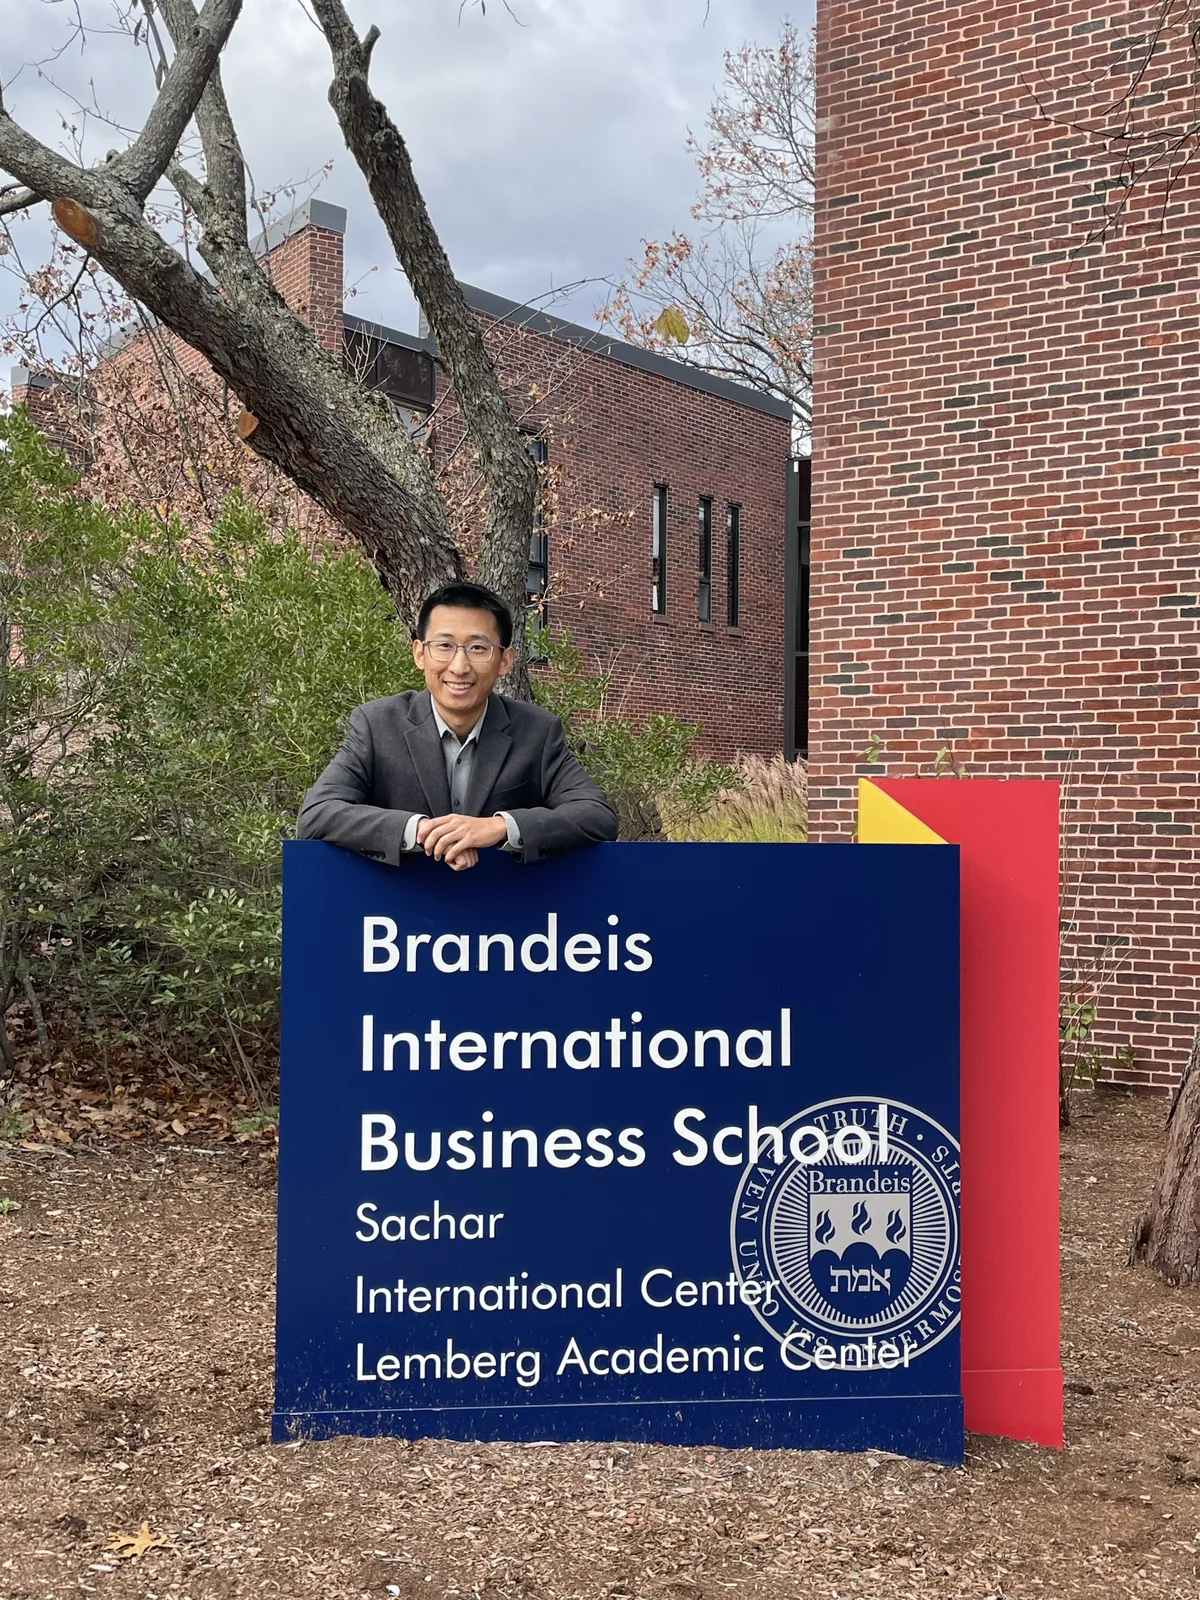
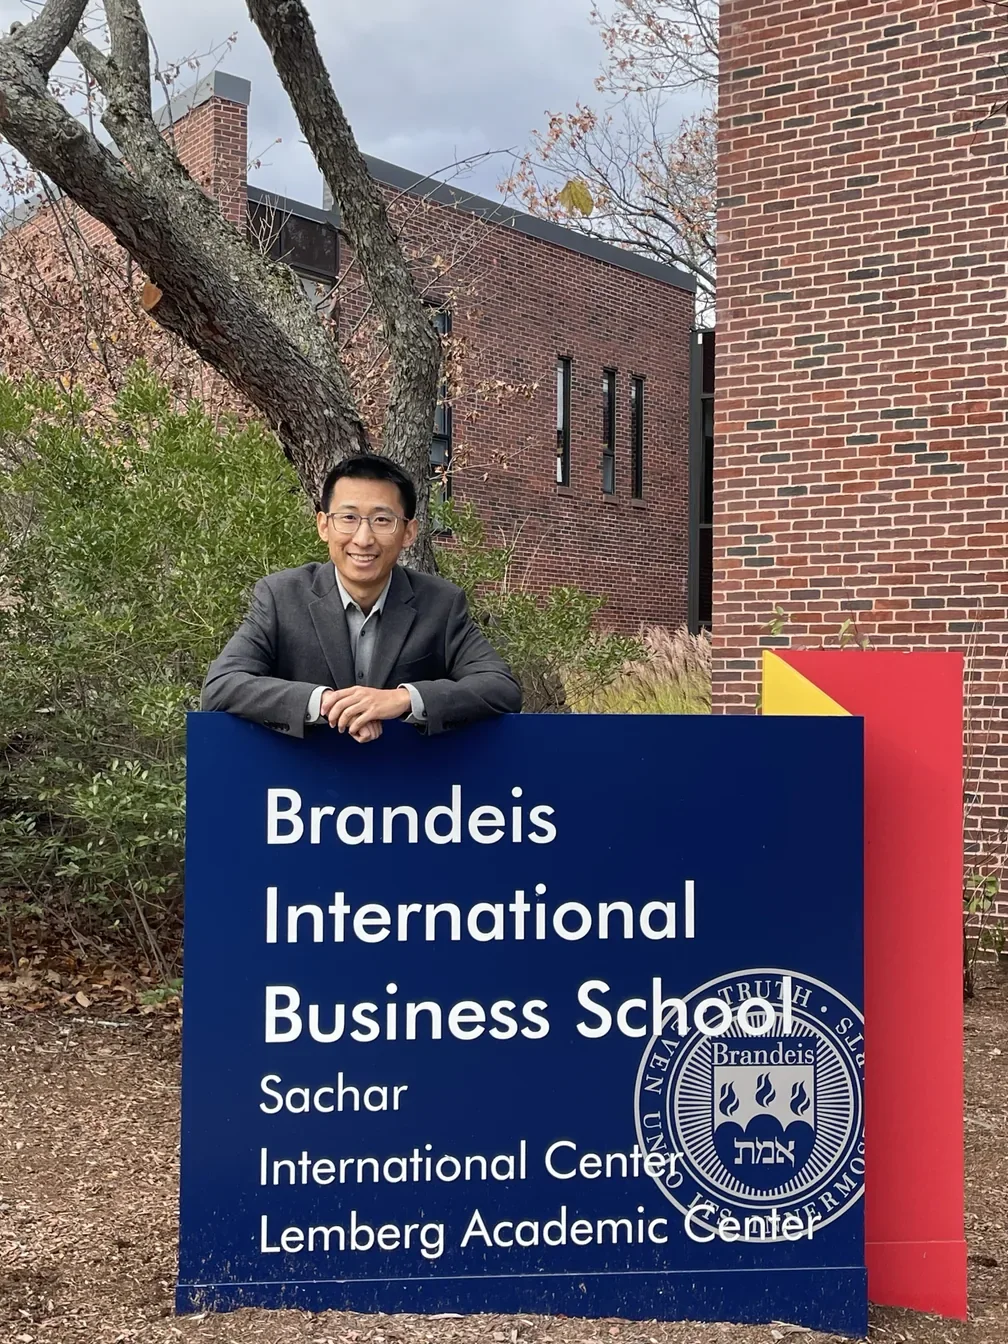
style: crop profile photo

diff --git a/tests/test_site.py b/tests/test_site.py
@@ -4,6 +4,8 @@ from html.parser import HTMLParser
 from pathlib import Path
 from urllib.parse import unquote, urlsplit
 
+from PIL import Image
+
 
 ROOT = Path(__file__).resolve().parents[1]
 PAGES = (
@@ -151,6 +153,11 @@ class PortfolioContractTests(unittest.TestCase):
         css = (ROOT / "assets/styles.css").read_text(encoding="utf-8")
         self.assertIn("grid-template-columns: minmax(0, 1fr) 280px;", css)
         self.assertIn("width: min(56vw, 210px);", css)
+
+    def test_lifestyle_photo_is_cropped_without_metadata(self):
+        with Image.open(ROOT / "assets/lifestyle-brandeis.webp") as photo:
+            self.assertEqual(photo.size, (1008, 1344))
+            self.assertEqual(len(photo.getexif()), 0)
 
     def test_project_pages_link_directly_to_real_products(self):
         expected = {
